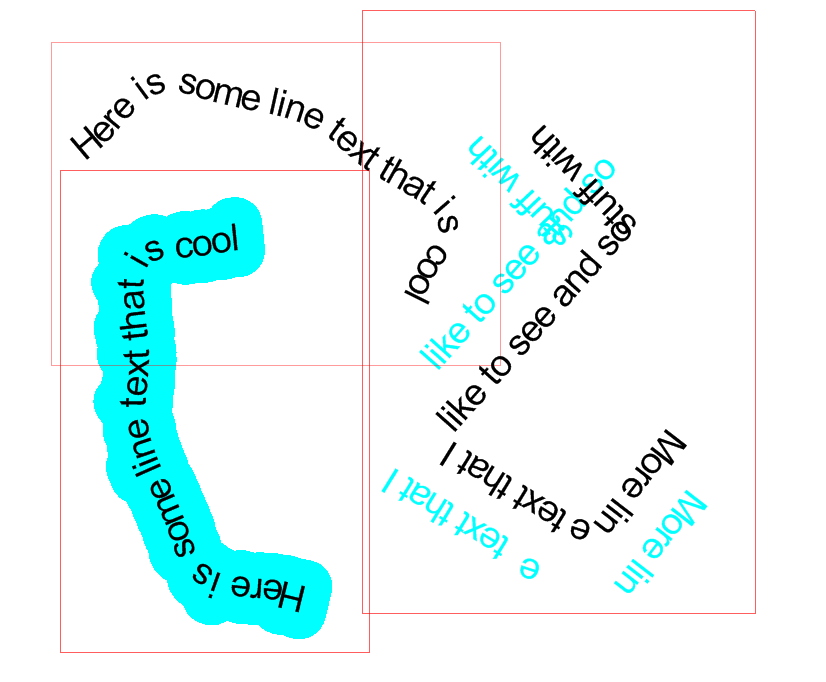
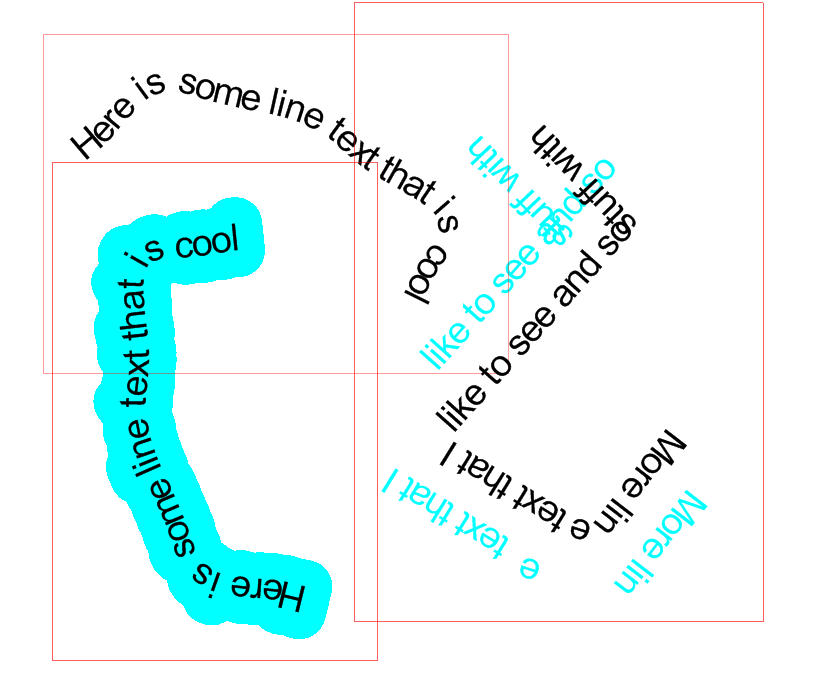
Fix OCAD paths for text objects due to alignment feature.

Changed region(s): [[0.4237, 0.2155, 0.4843, 0.9238], [0.0605, 0.2463, 0.0908, 0.5543], [0.4237, 0.0, 0.454, 0.0924]]

diff --git a/src/MapModel/OcadExport.cs b/src/MapModel/OcadExport.cs
@@ -1049,11 +1049,10 @@ namespace PurplePen.MapModel {
             if (width > 0) {
                 // Formatted text
                 points = new PointF[4];
-                float topAdjust = symdef.FontEmHeight - (symdef.FontAscent + symdef.FontDescent);
                 float height = size.Height + symdef.FontEmHeight - symdef.FontAscent;
 
                 // OCAD always aligns formatted text by the top.
-                topAdjust = symdef.GetOcadTopAdjustment(true, version);
+                float topAdjust = symdef.GetOcadTopAdjustment(true, version);
 
                 location.Y -= (float)(topAdjust * Math.Sin((angle + 90.0) / 360.0 * 2 * Math.PI));
                 location.X -= (float) (topAdjust * Math.Cos((angle + 90.0) / 360.0 * 2 * Math.PI));
@@ -1070,17 +1069,28 @@ namespace PurplePen.MapModel {
             }
             else {
                 // Unformatted text
-                float topAdjust = 0;
                 float height = symdef.FontEmHeight;
                 float descent = symdef.FontDescent;
                 points = new PointF[5];
 
                 // OCAD top align uses the W height, while we use the Font ascent. Adjust for the small difference.
-                topAdjust = symdef.GetOcadTopAdjustment(false, version);
+                float topAdjust = symdef.GetOcadTopAdjustment(false, version);
 
                 location.Y -= (float) (topAdjust * Math.Sin((angle + 90.0) / 360.0 * 2 * Math.PI));
                 location.X -= (float) (topAdjust * Math.Cos((angle + 90.0) / 360.0 * 2 * Math.PI));
                 points[0] = location;
+
+                if (version >= 10) {
+                    if (symdef.VertAlignment == TextSymDefVertAlignment.TopAscent) {
+                        location.Y -= (float)(symdef.WHeight * Math.Sin((angle + 90.0) / 360.0 * 2 * Math.PI));
+                        location.X -= (float)(symdef.WHeight * Math.Cos((angle + 90.0) / 360.0 * 2 * Math.PI));
+                    }
+                    else if (symdef.VertAlignment == TextSymDefVertAlignment.Midpoint) {
+                        location.Y -= (float)((symdef.WHeight / 2) * Math.Sin((angle + 90.0) / 360.0 * 2 * Math.PI));
+                        location.X -= (float)((symdef.WHeight / 2) * Math.Cos((angle + 90.0) / 360.0 * 2 * Math.PI));
+                    }
+                }
+
                 location.Y -= (float) (descent * Math.Sin((angle + 90.0) / 360.0 * 2 * Math.PI));
                 location.X -= (float) (descent * Math.Cos((angle + 90.0) / 360.0 * 2 * Math.PI));
                 if (symdef.FontAlignment == TextSymDefHorizAlignment.Right) {

diff --git a/src/MapModel/SymDef.cs b/src/MapModel/SymDef.cs
@@ -1940,7 +1940,7 @@ namespace PurplePen.MapModel
                 else
                     l = 0;
                 r = l + fullWidth;
-                t = topOfText - (FontAscent + FontDescent) + FontEmHeight;  // strong OCAD adjustment.
+                t = topOfText - (FontAscent + FontDescent) + FontEmHeight;  // strange OCAD adjustment.
                 b = bottomOfText + FontDescent;  // include the descender on the text.
 
                 PointF centerPoint = new PointF((r + l) / 2, (t + b) / 2);
@@ -2463,7 +2463,7 @@ namespace PurplePen.MapModel
             // But not that necessary.
 
             RectangleF rect = path.BoundingBox;
-            rect.Inflate(FontAscent, FontAscent);
+            rect.Inflate(FontAscent + FontDescent, FontAscent + FontDescent);
 
             if (framing.framingStyle == FramingStyle.Line)
                 rect.Inflate(framing.lineWidth, framing.lineWidth);
